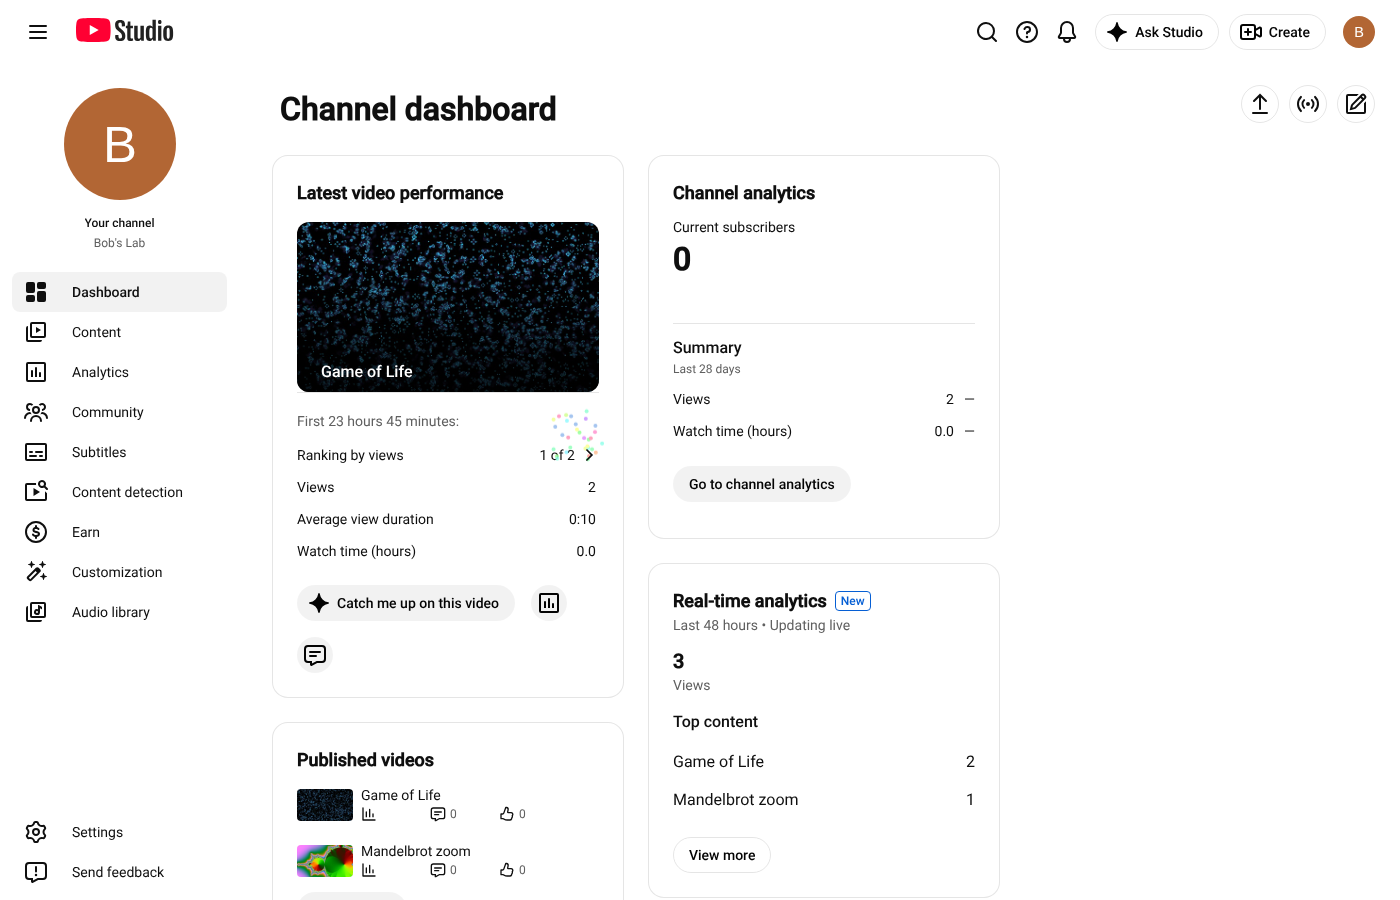
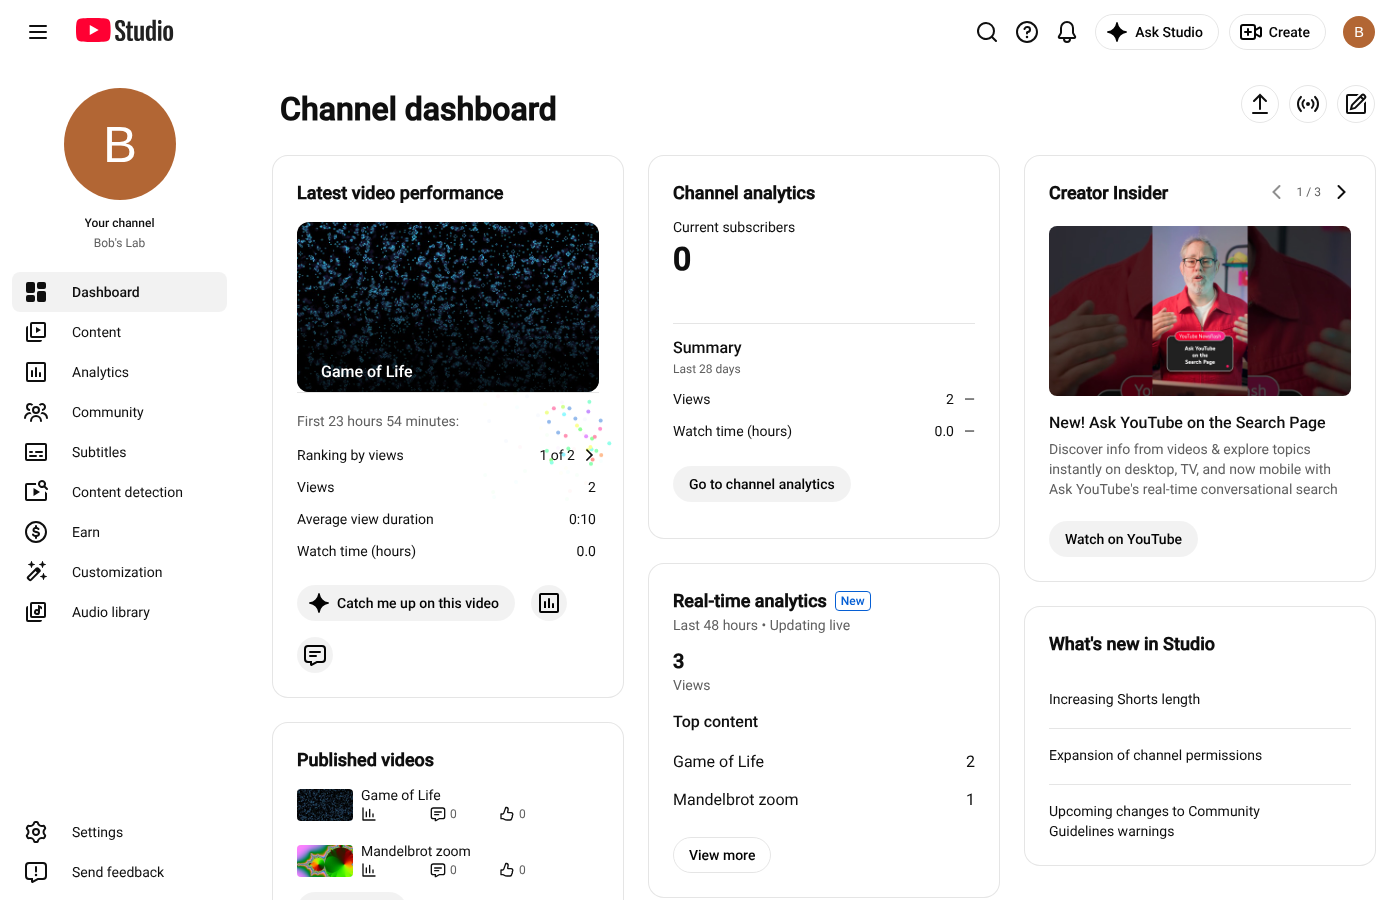
Studio dashboard: YouTube's Creator Insider and What's new cards, as captured
The dashboard now has every card the real one sends: the Creator
Insider carousel and "What's new in Studio" come from the capture
through make-templates (account impression tokens removed), with their
promo images pinned in the archive so they load under Studio's CSP.

Claude-Session: https://claude.ai/code/session_01LVDih73pxiSFrRNHY69S3s

diff --git a/scripts/make-templates.ts b/scripts/make-templates.ts
@@ -1735,6 +1735,24 @@ function studio() {
 	save("studio/channel", tokenize(ch, []), [id, title]);
 }
 
+// YouTube's own cards on Studio's dashboard, as the capture has them: the
+// Creator Insider carousel and "What's new in Studio" (help center articles).
+// Their impression/click tokens are the signed-in account's and are dropped;
+// the videos and articles they link to stay on YouTube and its help center.
+function studioDashboard() {
+	const [, r] = bodies("studio-all", /creator_get_channel_dashboard\.resp$/)[0];
+	const card = (id: string) => {
+		const c = r.cards.find((c: any) => c.id === id);
+		if (!c) throw new Error(`no ${id} card`);
+		return c;
+	};
+	const insider = dropKey(clean(card("creator_insider")), "feedbackTokens");
+	// tokenize sends www.youtube.com links to this instance; these are YouTube's videos
+	const youtube = strings(insider, (s) => s.replace(/^https:\/\/www\.youtube\.com\/watch\?/, "{{YOUTUBE}}/watch?"));
+	save("studio/dashboard_creator_insider", tokenize(youtube, []));
+	save("studio/dashboard_product_updates", tokenize(clean(card("product_updates")), []));
+}
+
 // ======================================================================
 const only = process.argv.slice(2);
 personalValues();
@@ -1755,6 +1773,7 @@ const steps: [string, () => void][] = [
 	["share", sharePanel],
 	["playlist-panel", playlistPanelTpl],
 	["studio", studio],
+	["studio-dashboard", studioDashboard],
 	["badges", badges],
 ];
 for (const [name, fn] of steps) {

diff --git a/src/studio/dashboard.ts b/src/studio/dashboard.ts
@@ -12,6 +12,8 @@
 import type { Viewer } from "../client/page";
 import { responseContext } from "../innertube/r";
 import { ApiError, type Ctx, route } from "../innertube/router";
+import { make } from "../innertube/tpl";
+import { baseVars } from "../innertube/vars";
 import { type ChannelVideo, type Query, channelVideos, runQuery } from "./analytics";
 import { creatorVideo, maskedVideo, videosFor } from "./video";
 
@@ -103,7 +105,12 @@ route("creator/get_channel_dashboard", async (ctx: Ctx) => {
 	if (params.channelId && params.channelId !== viewer.channelId) return { responseContext: responseContext(viewer), cards: [] };
 	const videos = await channelVideos(viewer.channelId);
 	const f = params.factsAnalyticsParams ?? {};
-	const cards: unknown[] = [await facts(viewer, f.nodes ?? [], f.connectors ?? [], videos)];
+	const youtube = { ...baseVars(viewer), YOUTUBE: "https://www.youtube.com" };
+	const cards: unknown[] = [
+		await facts(viewer, f.nodes ?? [], f.connectors ?? [], videos),
+		make("studio/dashboard_product_updates", youtube),
+		make("studio/dashboard_creator_insider", youtube),
+	];
 	const snap = await snapshot(viewer, videos);
 	if (snap) cards.push(snap);
 	// the channel's latest uploads, with their details sent along so the card

diff --git a/docs/architecture.md b/docs/architecture.md
@@ -74,6 +74,8 @@ Studio runs as the pinned creator client on its own origin ([`src/studio/`](../s
 - Drafts are recognised by a `draftStatus` other than `DRAFT_STATUS_NONE`.
 - `video/delete` must answer `{success: true}`; bulk delete enqueues and is polled with `creator/check_creator_bulk_delete` until `BULK_ACTION_STATUS_DONE`.
 - While a video uploads or processes, `statusDetails.feedbackServiceContinuationToken` makes Studio poll `upload/feedback`, whose items carry transfer progress, per-resolution processing state and, once done, thumbnails ([`src/studio/feedback.ts`](../src/studio/feedback.ts)). No copyright or guidelines checks run, so Studio shows its own "Checks complete" state.
+- Figures come from hourly tables ([`migrations/008_stats.sql`](../migrations/008_stats.sql), [`src/stats.ts`](../src/stats.ts)): a view when the player's playback ping arrives (once per viewer and hour), watch time from the played segments in watchtime pings, and subscribers gained and lost. Studio asks for figures as analytics queries (metrics, dimensions, restricts, time range), which [`src/studio/analytics.ts`](../src/studio/analytics.ts) answers as result tables; metrics this instance doesn't record answer zero, marked undefined.
+- The dashboard ([`src/studio/dashboard.ts`](../src/studio/dashboard.ts)) answers the facts card's query nodes and connectors, and adds the latest video's snapshot (ranked by views among the 10 latest) and the published videos card. YouTube's own Creator Insider carousel and "What's new in Studio" card are served as captured (templates `studio/dashboard_*`), without the account's impression tokens; their images are pinned in the archive, and their links go to YouTube and its help center.
 
 ## Badges and marks
 

diff --git a/docs/compat/parity.md b/docs/compat/parity.md
@@ -57,7 +57,10 @@ Status: ✅ works · 🟡 partial · ❌ not implemented
 | Edit | Title, description, visibility | ✅ | manual |
 | Edit | Custom thumbnail, playlists, audience, tags, category, language, license, comments settings | ❌ | — |
 | Edit | Editor (trim, blur), subtitles, end screens, cards | ❌ | — |
-| Dashboard, Analytics, Community, Subtitles, Copyright, Earn, Customization, Audio library, Settings | | ❌ | pages load without data |
+| Dashboard | Channel analytics, latest video performance, real-time views and top content, published videos, Creator Insider, What's new | ✅ | studio-walk screenshot |
+| Dashboard | Latest comments, recent subscribers | ❌ | — |
+| Analytics, Community, Subtitles, Copyright, Earn, Customization, Audio library, Settings | | ❌ | pages load without data |
+| Appearance | Dark theme | ❌ | Studio's dark build isn't pinned, so a dark page shows light backgrounds |
 | Checks | Copyright and guidelines checks | ❌ | Studio shows "Checks complete" |
 
 ## Admin panel

diff --git a/docs/remaining-work.md b/docs/remaining-work.md
@@ -39,7 +39,8 @@ Every settings page in the client, backed by stored preferences:
 
 ## YouTube Studio
 
-- Dashboard with real channel figures, latest video performance and comments.
+- Dashboard comments and recent subscribers cards.
+- Dark theme: pin the dark build (stylesheet, toggles, modules), serve it with `server-dark` when the page is dark.
 - Content tabs: Shorts, Live, Posts, Playlists (create/edit in Studio), Podcasts; filters and search; views in the list.
 - Video details: custom thumbnail upload, playlists, audience (made for kids), age restriction, tags, category, language, recording date/location, license, embedding, comments and ratings settings, scheduling.
 - Video editor (trim, blur, audio), end screens, cards, subtitles editor.
